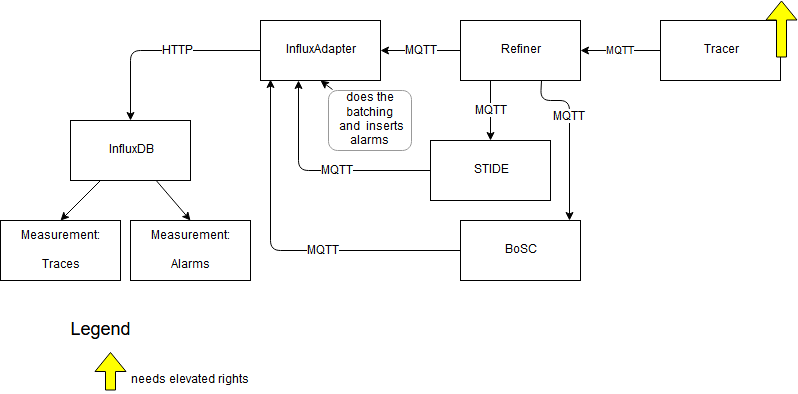
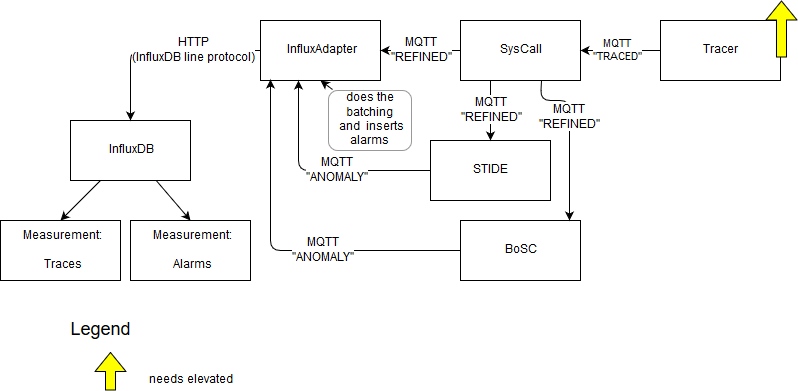
init BoSC

diff --git a/src/BoSC.py b/src/BoSC.py
@@ -1,0 +1,43 @@
+#!/usr/bin/env python3
+
+# *****************************************************************************
+#  Copyright (c) 2018 Fraunhofer IEM and others
+#
+#  This program and the accompanying materials are made available under the
+#  terms of the Eclipse Public License 2.0 which is available at
+#  http://www.eclipse.org/legal/epl-2.0
+#
+#  SPDX-License-Identifier: EPL-2.0
+#
+#  Contributors: Fraunhofer IEM
+# *****************************************************************************
+
+
+#When contributing, please make sure to stick to PEP8 as much as possible.
+#https://www.python.org/dev/peps/pep-0008/
+
+import paho.mqtt.client as mqtt
+
+class BoSC(object):
+    """Implements Bags of SystemCalls as mentioned in the README.md"""
+    
+    def __init__(self,windowsize):
+        self.WINDOW_SIZE = windowsize
+        self.client = mqtt.Client()
+        self.client.on_connect = self.on_connect
+        self.client.on_message = self.on_message
+        self.client.on_log     = self.on_log
+
+
+    def on_connect(self,client,userdata,flags,rc):
+        """Consists of actions to take when the connection is established."""
+        print("Subscribing to TRACED")
+        self.client.subscribe("TRACED") 
+
+    def on_log(self,client, userdata, level, buf):
+        """Uses the built-in logger to output errors and events of interest"""
+        print("log: ",buf)
+
+    def on_message(self,client,userdata,msg):
+        '''Handles incoming MQTT messages'''
+
